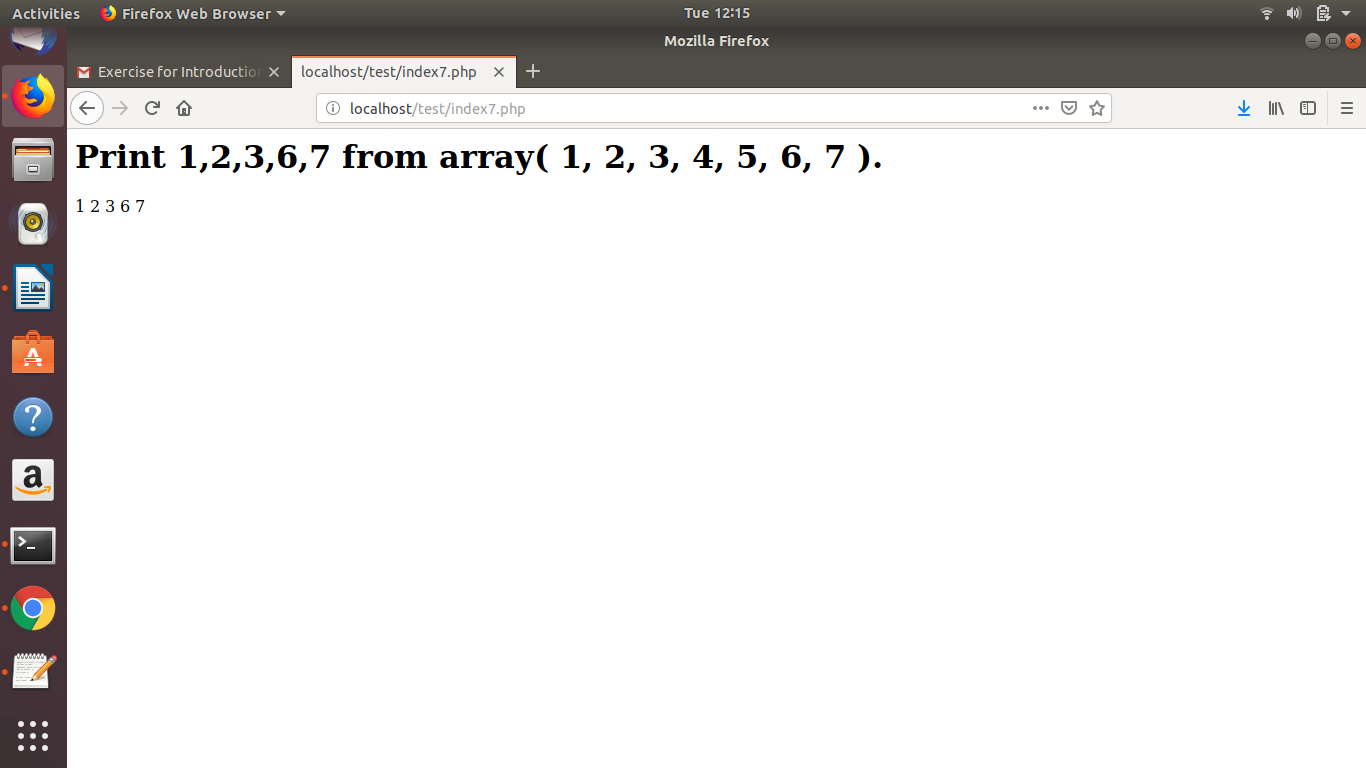
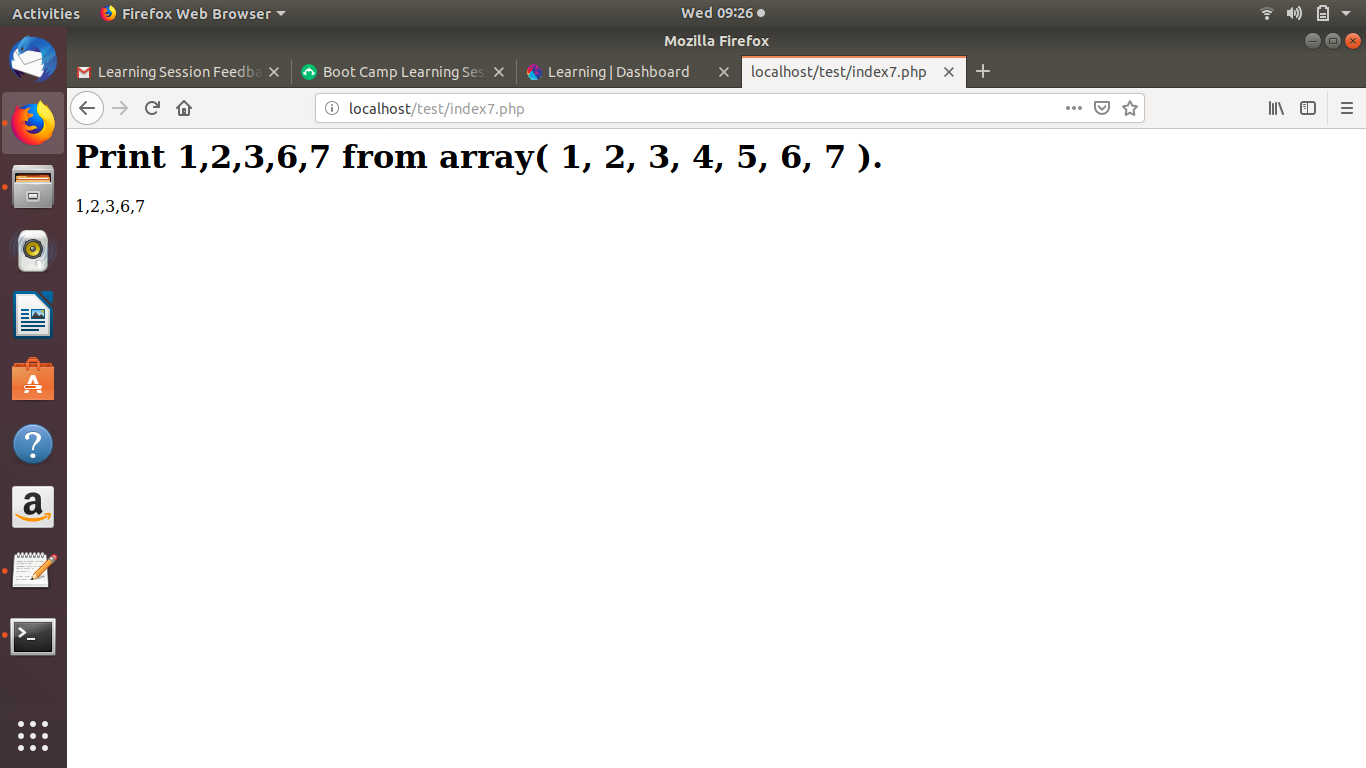
Modified question 7

diff --git a/Drupal bootcamp/Day2/index7.php b/Drupal bootcamp/Day2/index7.php
@@ -6,7 +6,11 @@
 		if($value == 5 || $value == 4):
 			continue;
 		endif;
-		echo $value." ";
+		if($value == sizeof($numbers)):
+			echo $value;
+		else:
+		echo $value.",";
+		endif;
 	endforeach;
 ?>
  
